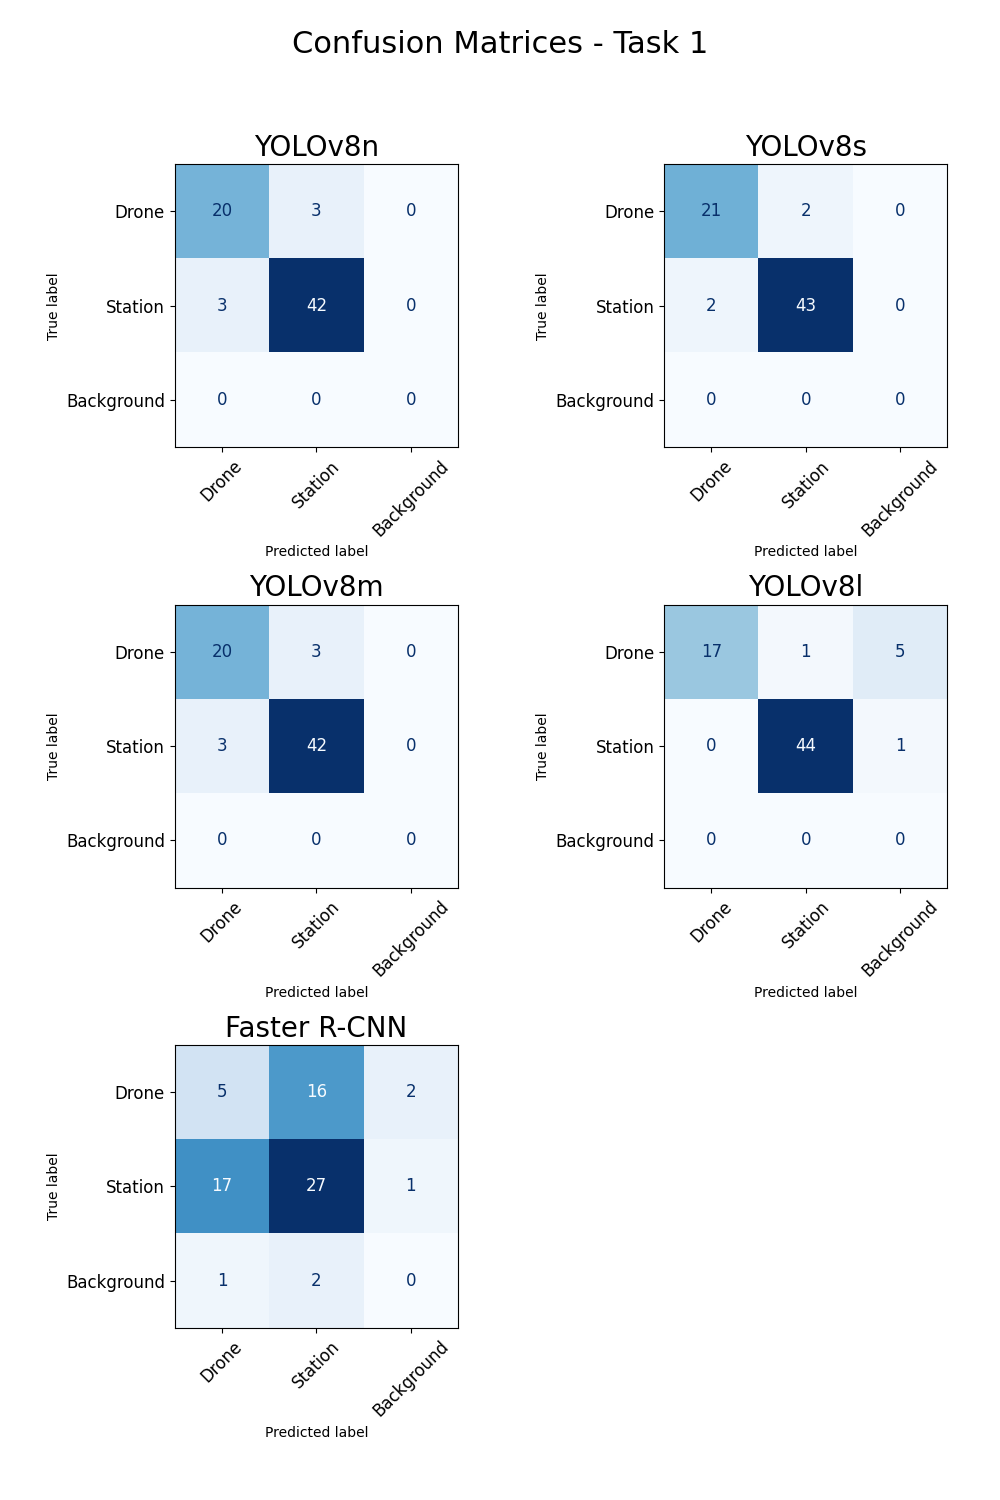
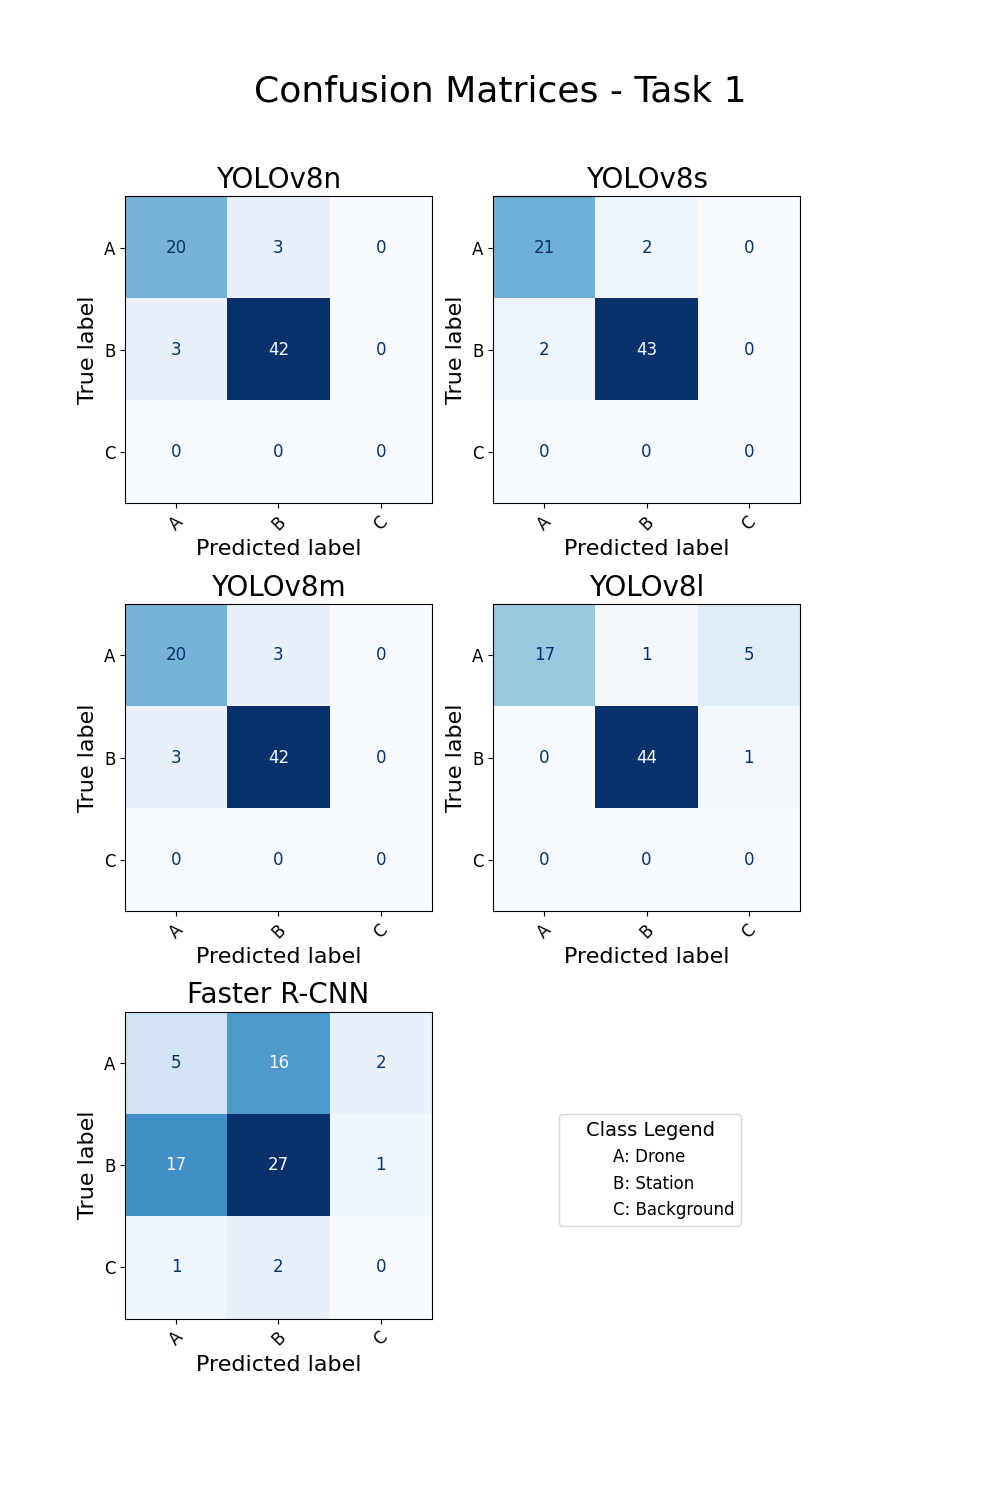
Training and plotting

diff --git a/7_2_confusion_plots_tests.py b/7_2_confusion_plots_tests.py
@@ -4,6 +4,7 @@ import matplotlib.pyplot as plt
 from sklearn.metrics import confusion_matrix, ConfusionMatrixDisplay
 from glob import glob
 
+
 def load_yolo_labels(label_dir, class_offset=0):
     data = {}
     for path in glob(os.path.join(label_dir, "*.txt")):
@@ -12,6 +13,7 @@ def load_yolo_labels(label_dir, class_offset=0):
             filename = os.path.basename(path).replace(".txt", ".jpg")
             data[filename] = labels
     return data
+
 
 def get_flattened_labels(gt_dict, pred_dict, filenames, background_label=None):
     y_true, y_pred = [], []
@@ -28,6 +30,7 @@ def get_flattened_labels(gt_dict, pred_dict, filenames, background_label=None):
         y_pred.extend(pred)
     return y_true, y_pred
 
+
 def plot_conf_matrices(model_dirs, gt_dir, class_names, task_name, save_path, model_names=None):
     print(f"\nGenerating confusion matrices for {task_name}...")
     background_label = len(class_names)  # For unmatched predictions/GTs
@@ -37,19 +40,23 @@ def plot_conf_matrices(model_dirs, gt_dir, class_names, task_name, save_path, mo
     filenames = sorted(gt_labels.keys())
 
     if model_names is None:
-        model_names = [f"Model {i+1}" for i in range(len(model_dirs))]
+        model_names = [f"Model {i + 1}" for i in range(len(model_dirs))]
 
     # Create 3 rows, 2 columns layout
     rows, cols = 3, 2
     fig, axes = plt.subplots(rows, cols, figsize=(cols * 5, rows * 5))
     axes = axes.flatten()
 
+    # Create a dictionary for the mapping of A, B, C to actual class names
+    label_mapping = {i: f"{chr(65 + i)}" for i in range(len(class_names))}
+    inverse_label_mapping = {f"{chr(65 + i)}": class_names[i] for i in range(len(class_names))}
+
     for i, (model_dir, model_name) in enumerate(zip(model_dirs, model_names)):
         model_labels = load_yolo_labels(model_dir, class_offset=0)
         y_true, y_pred = get_flattened_labels(gt_labels, model_labels, filenames, background_label)
 
         cm = confusion_matrix(y_true, y_pred, labels=list(range(len(class_names))))
-        disp = ConfusionMatrixDisplay(cm, display_labels=class_names)
+        disp = ConfusionMatrixDisplay(cm, display_labels=[f"{chr(65 + i)}" for i in range(len(class_names))])
 
         disp.plot(
             ax=axes[i],
@@ -60,6 +67,11 @@ def plot_conf_matrices(model_dirs, gt_dir, class_names, task_name, save_path, mo
         )
         axes[i].set_title(model_name, fontsize=20)
         axes[i].tick_params(labelsize=12)
+
+        # Remove class names from the axes
+        axes[i].set_xlabel('Predicted label', fontsize=16)
+        axes[i].set_ylabel('True label', fontsize=16)
+
         for text in disp.text_.ravel():
             if text:
                 text.set_fontsize(12)
@@ -68,12 +80,24 @@ def plot_conf_matrices(model_dirs, gt_dir, class_names, task_name, save_path, mo
     for j in range(len(model_dirs), rows * cols):
         fig.delaxes(axes[j])
 
-    plt.suptitle(f"Confusion Matrices - {task_name}", fontsize=22)
-    plt.tight_layout(rect=[0, 0.03, 1, 0.95])
+    # Create the legend in the bottom-right position
+    handles = [
+        plt.Line2D([0], [0], marker='o', color='w')
+        for i in range(len(class_names))]
+    labels = [f"{label_mapping[i]}: {inverse_label_mapping[label_mapping[i]]}" for i in range(len(class_names))]
+
+    fig.legend(handles, labels, loc="center", fontsize=12, title="Class Legend", title_fontsize=14,
+               bbox_to_anchor=(0.65, 0.22), ncol=1)
+
+    # Adjust layout to give space for the legend (we're avoiding tight_layout to allow room for legend)
+    fig.subplots_adjust(right=0.8)
+
+    plt.suptitle(f"Confusion Matrices - {task_name}", fontsize=26, y=0.95)
+
+    # Save the plot to the specified path
     plt.savefig(save_path)
     plt.close()
     print(f"Saved plot to {save_path}")
-
 
 
 def main():
@@ -95,7 +119,8 @@ def main():
     ]
     task1_gt = "Datasets/Dataset_NN1/Dataset_NN1/test/labels"
     task1_classes = ["Drone", "Station"]
-    plot_conf_matrices(task1_models, task1_gt, task1_classes, "Task 1", "Plots/conf_matrix_task1.png", model_names=model_names)
+    plot_conf_matrices(task1_models, task1_gt, task1_classes, "Task 1", "Plots/conf_matrix_task1.png",
+                       model_names=model_names)
 
     # TASK 2
     task2_models = [
@@ -113,7 +138,9 @@ def main():
         "Station_BL_Empty", "Station_BL_Full",
         "Station_BR_Empty", "Station_BR_Full"
     ]
-    plot_conf_matrices(task2_models, task2_gt, task2_classes, "Task 2", "Plots/conf_matrix_task2.png", model_names=model_names)
+    plot_conf_matrices(task2_models, task2_gt, task2_classes, "Task 2", "Plots/conf_matrix_task2.png",
+                       model_names=model_names)
+
 
 if __name__ == "__main__":
     main()
